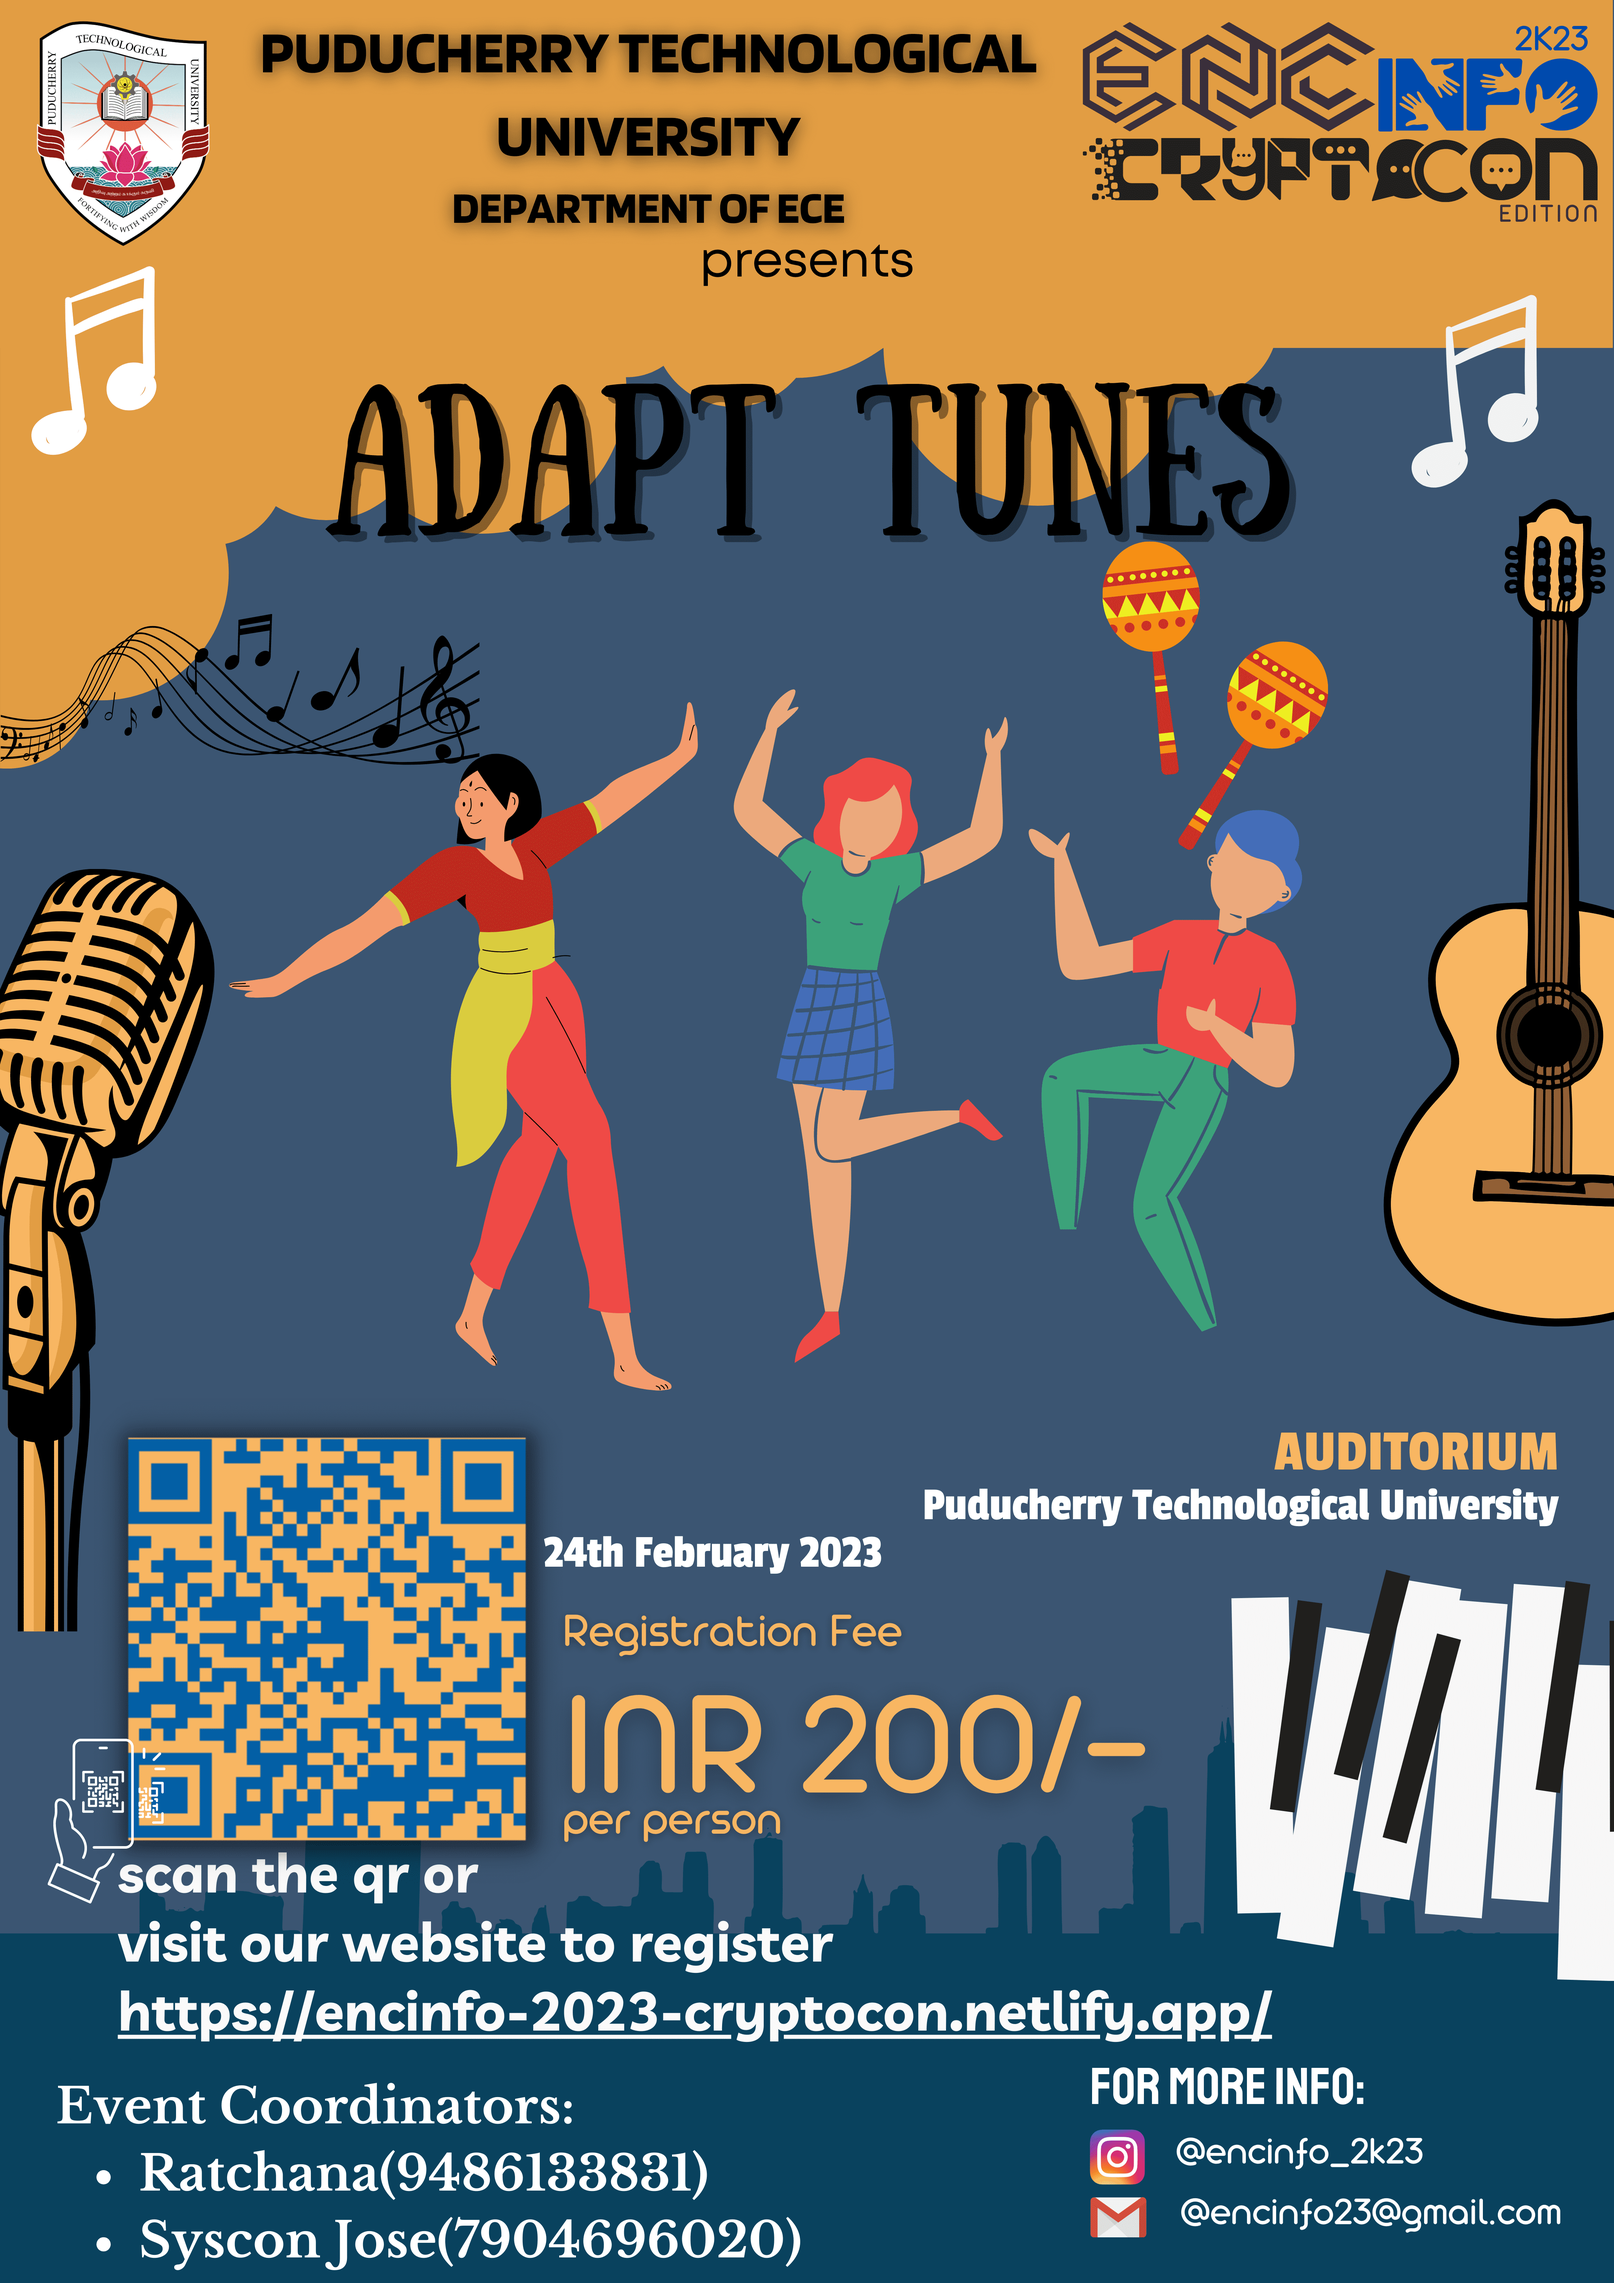
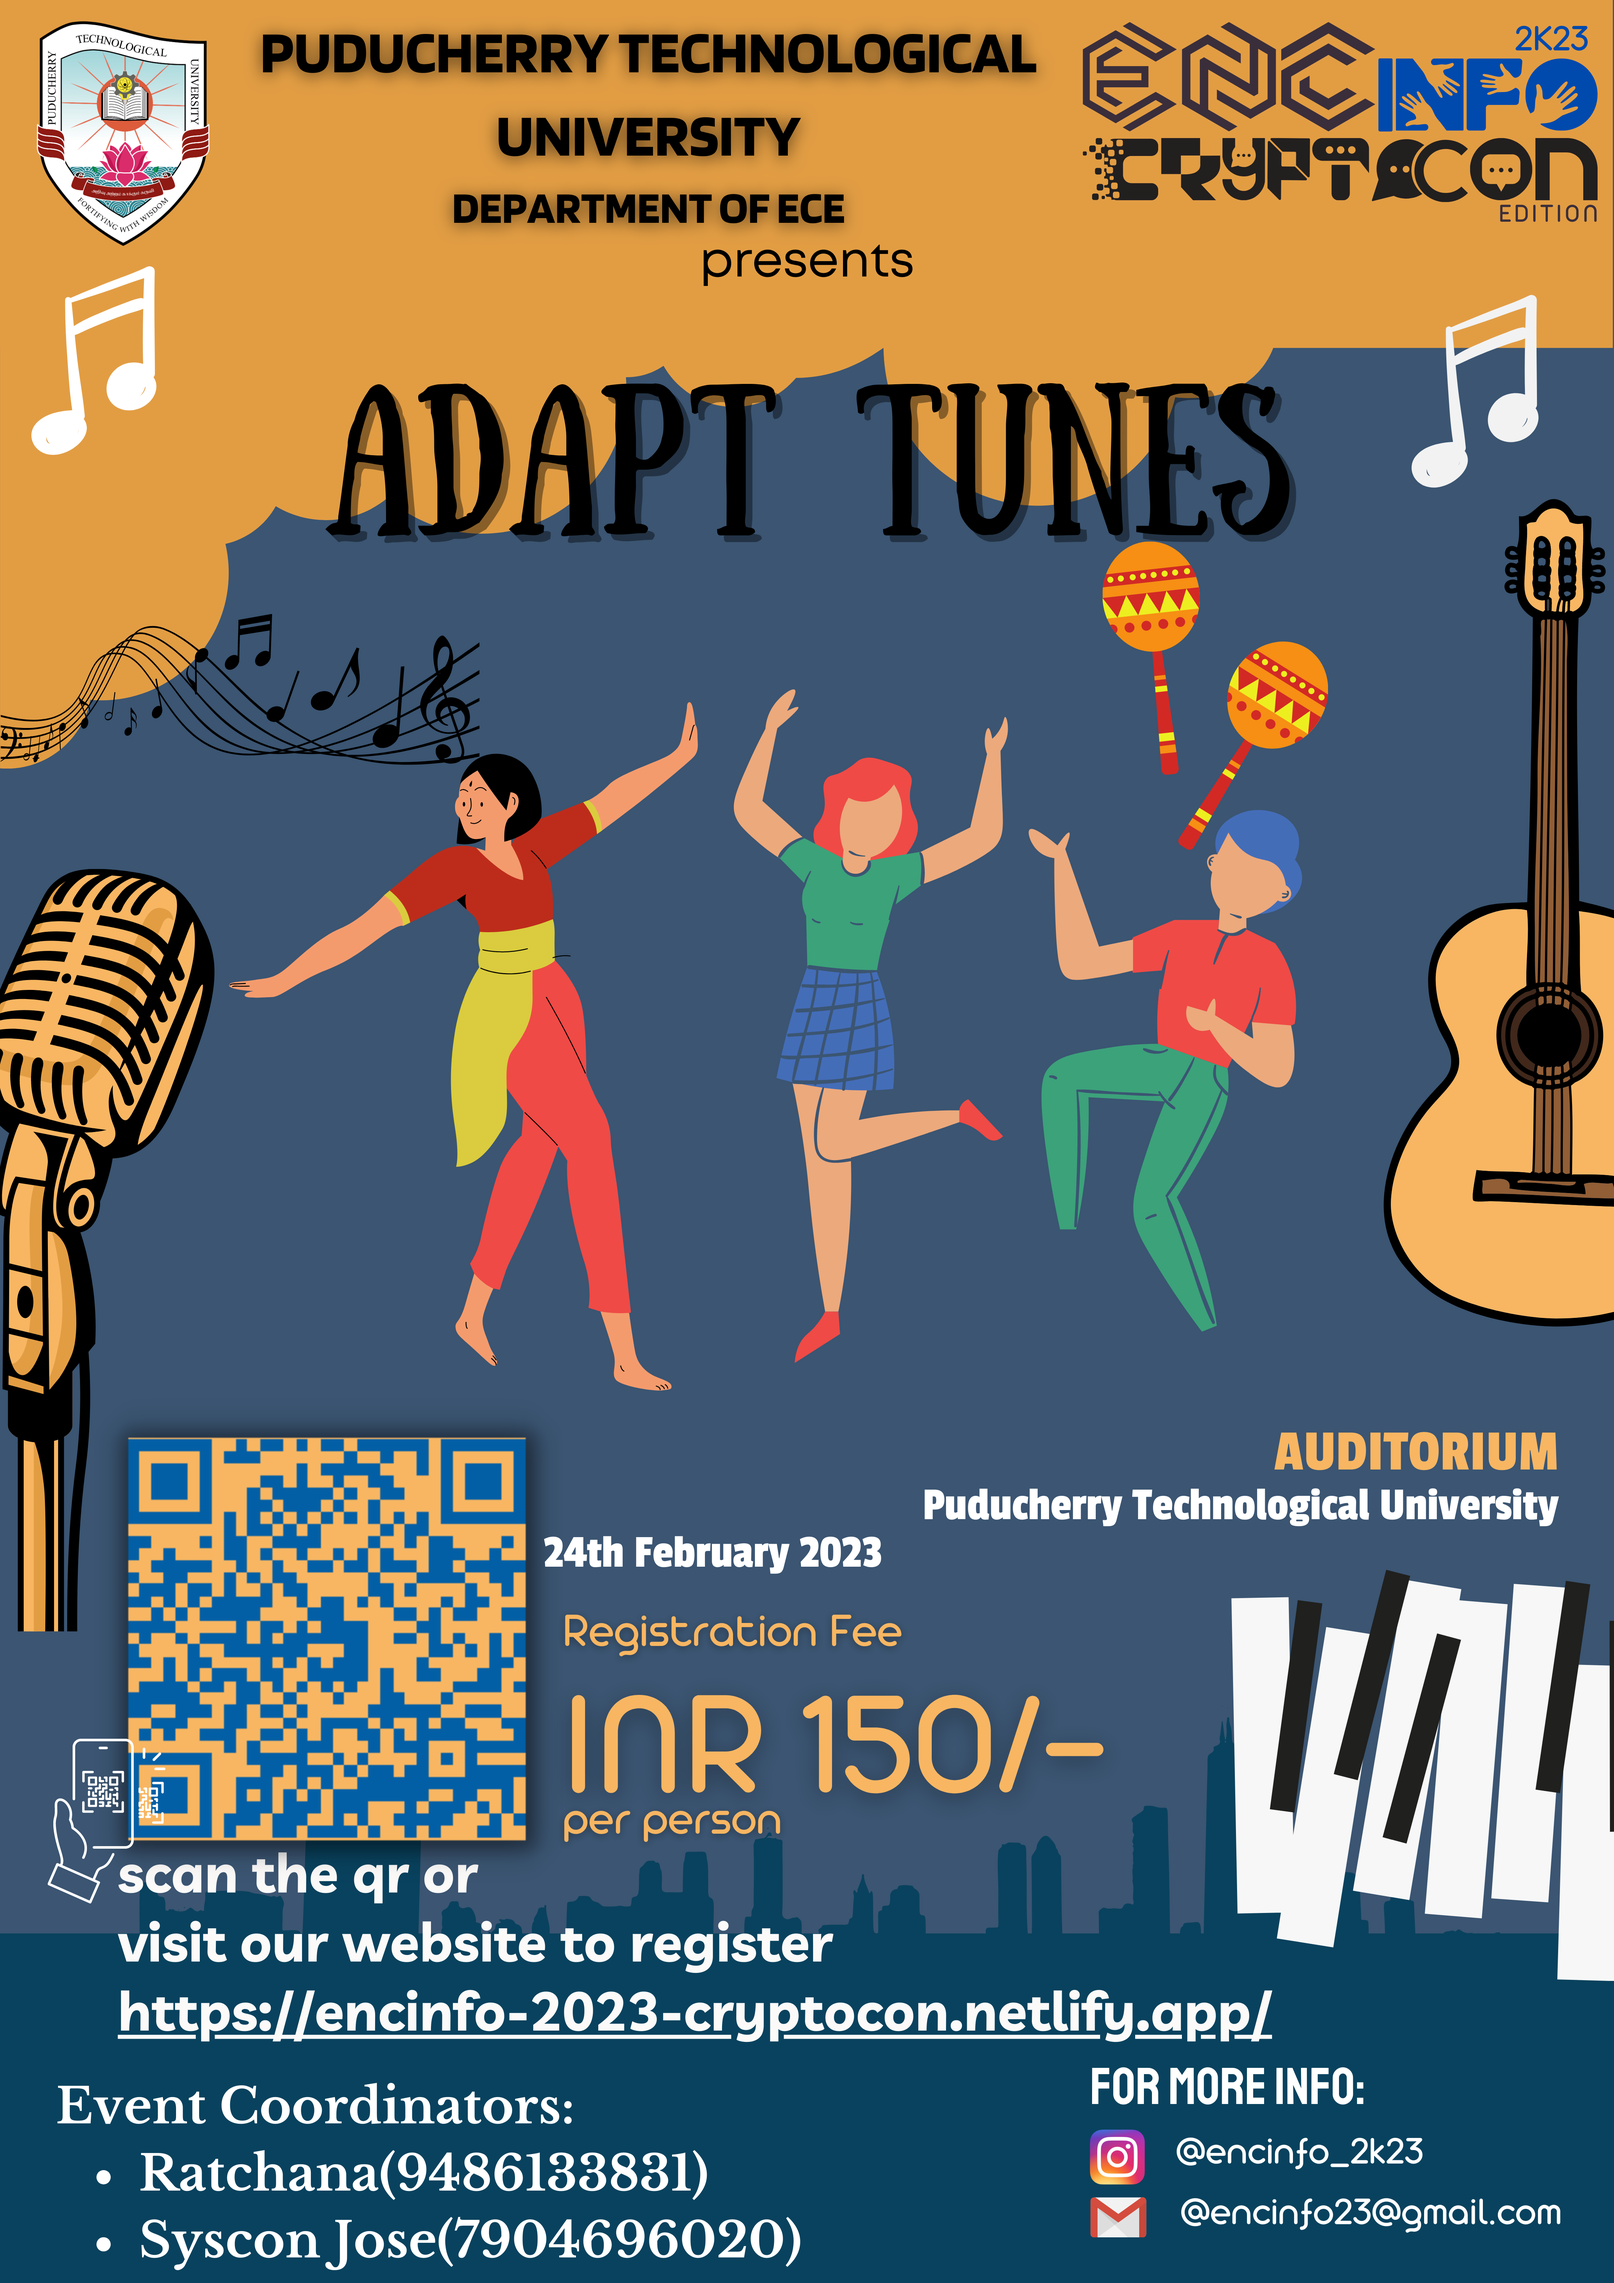
small changes

diff --git a/src/components/Detailedevents.js b/src/components/Detailedevents.js
@@ -449,7 +449,7 @@ const Detailedevents = () =>{
                 <div className='flex-1 xl:pr-12'>
                   <h1 className="text-lg text-left py-3 font-medium">Rules and Regulations: </h1>
                   <ul className="list-outside py-3" data-aos='fade-left'>
-                    <li className="py-3 text-left text-2xl text-violet-700 font-semibold">1. The entry fee is Rs.200 per head.</li>
+                    <li className="py-3 text-left text-2xl text-violet-700 font-semibold">1. The entry fee is Rs.150 per head.</li>
                     <li className="py-3 text-left text-lg text-red-500 font-semibold ">2. Duration - 3 minutes.</li>
                     <li className="py-3 text-left font-medium">3. Four to six songs will be played on spot.</li>
                     <li className="py-3 text-left font-medium">4. Participants should adapt themselves to the beat.</li>
@@ -989,9 +989,10 @@ const Detailedevents = () =>{
                     <li className="py-3 text-left font-medium">3. Every participant must be a college student (Id cards verification will be done).</li>
                     <li className="py-3 text-left font-medium">4. Tournament will be conducted online.</li>
                     <li className="py-3 text-left font-medium">5. Game mode: DEATHMATCH.</li>
-                    <li className="py-3 text-left font-medium">6. Single map will be played for whole tournament.(will choose by a majority vote in G-form).</li>
-                    <li className="py-3 text-left font-medium">7. Timings will be displayed in the discord server on the morning of the tournament day.</li>
-                    <li className="py-3 text-left font-medium">8. Disqualification will result from any of the following
+                    <li className="py-3 text-left font-medium">6. Three map will be played for whole tournament.(will choose by a majority vote in G-form).</li>
+                    <li className="py-3 text-left font-medium">7. Tounament conduction is explained in detail in G-form(also in discord-must join).</li>
+                    <li className="py-3 text-left font-medium">8. Timings will be displayed in the discord server on the morning of the tournament day.</li>
+                    <li className="py-3 text-left font-medium">9. Disqualification will result from any of the following
     <ul className='px-4'>
     <li>a. Any insults and unfair or disrespectful behaviors' </li>
     <li>b. If participant Didnt Report on given time slot.</li>

diff --git a/src/data.js b/src/data.js
@@ -123,7 +123,7 @@ export const TechnicaleventsData = {
       bgImage: Feature1BgImg,
       title: 'Technical Quiz',
       description:
-        'A quiz on Common Tech!',
+        'A quiz on General aptitude and vocabulary!',
       linkText: 'Register Here',
       url:'https://docs.google.com/forms/d/e/1FAIpQLSfLRaJaRYjskE71eJBxDgHBnk3PxebxaM0H681KU2-c028sXw/viewform',
       delay: '400',
